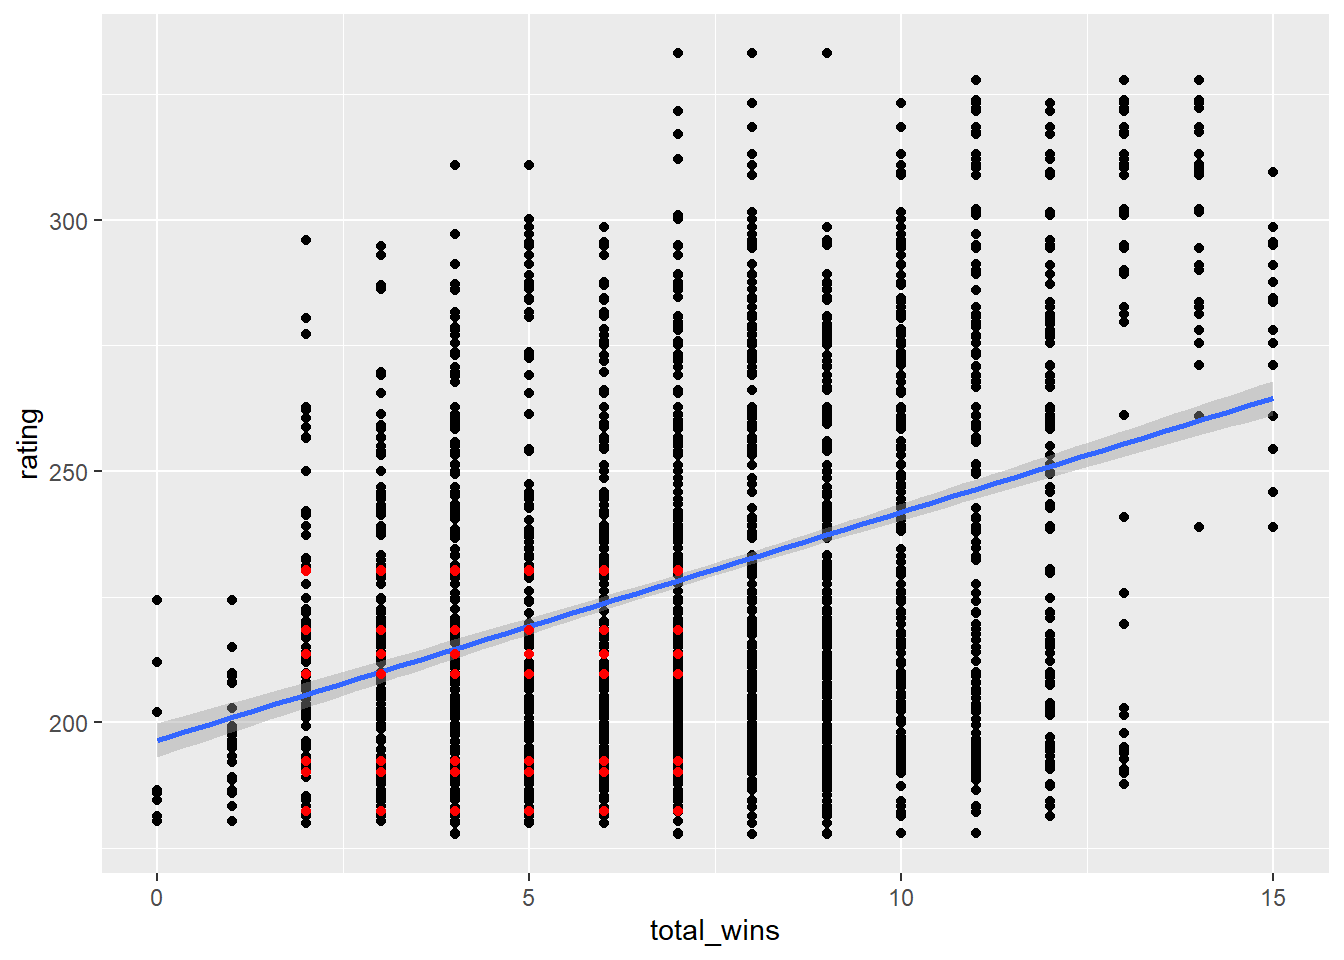
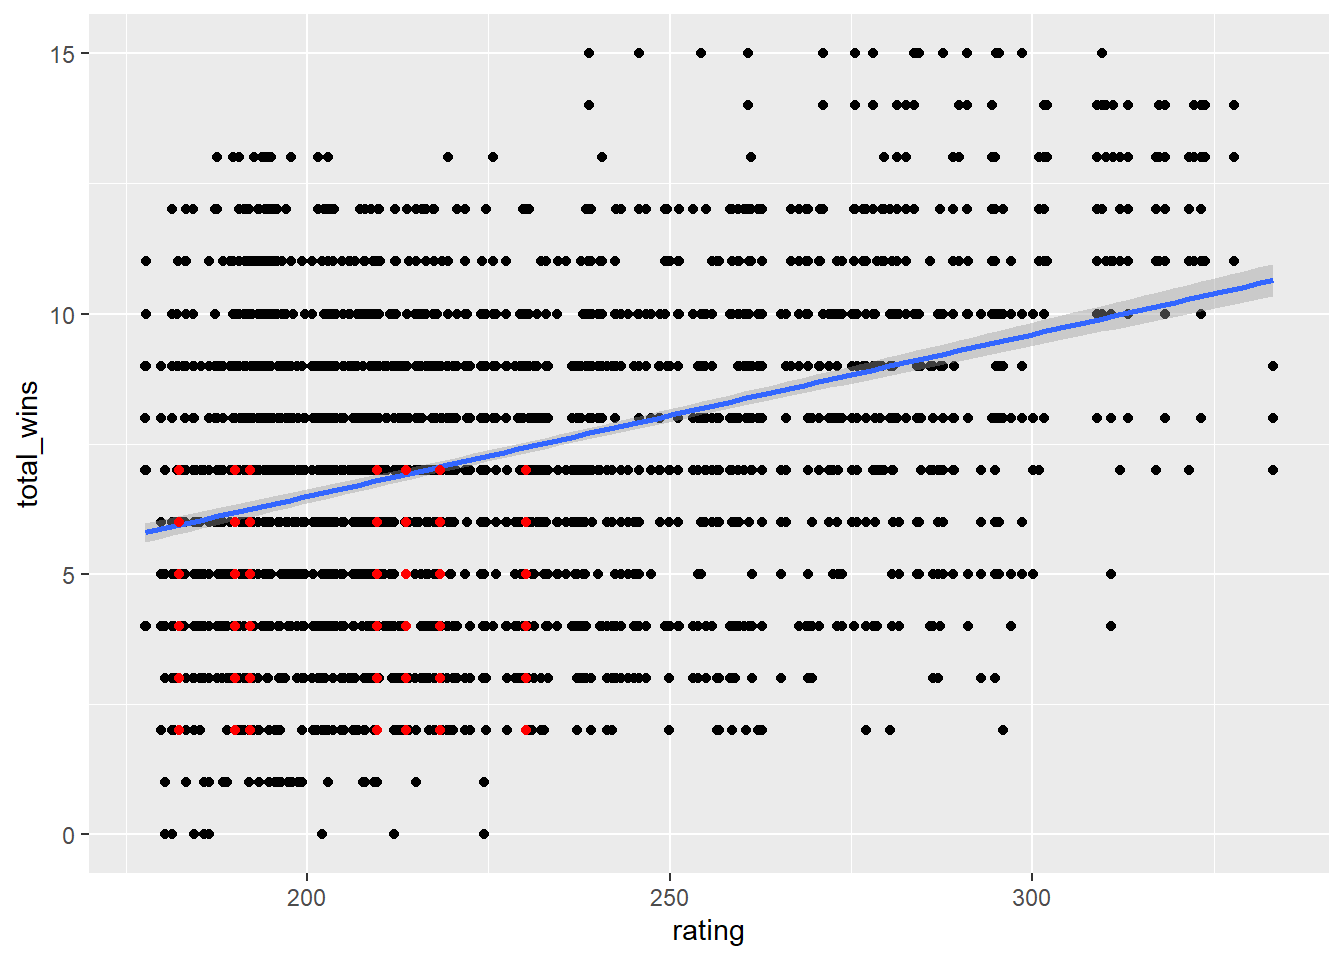
update post

diff --git a/sportsdatablog/2022/10/20/recruiting-ratings-and-wins/index.html b/sportsdatablog/2022/10/20/recruiting-ratings-and-wins/index.html
@@ -96,9 +96,9 @@ records &lt;- read.csv(&quot;all_teams.csv&quot;)</code></pre>
 <pre class="r"><code>terps &lt;- joined %&gt;% filter(team == &quot;Maryland&quot;)
 
 ggplot() + 
-  geom_point(data=joined, aes(x=total_wins, y=rating)) +
-  geom_smooth(data=joined, aes(x=total_wins, y=rating), method=&quot;lm&quot;) +
-  geom_point(data=terps, aes(x=total_wins, y=rating), color = &quot;red&quot;)</code></pre>
+  geom_point(data=joined, aes(x=rating, y=total_wins)) +
+  geom_smooth(data=joined, aes(x=rating, y=total_wins), method=&quot;lm&quot;) +
+  geom_point(data=terps, aes(x=rating, y=total_wins), color = &quot;red&quot;)</code></pre>
 <pre><code>## `geom_smooth()` using formula &#39;y ~ x&#39;</code></pre>
 <p><img src="https://rinatorch.github.io/sportsdatablog/2022/10/20/recruiting-ratings-and-wins/index_files/figure-html/unnamed-chunk-4-1.png" width="672" /></p>
 <p>Let’s build a linear model to analyze.</p>
